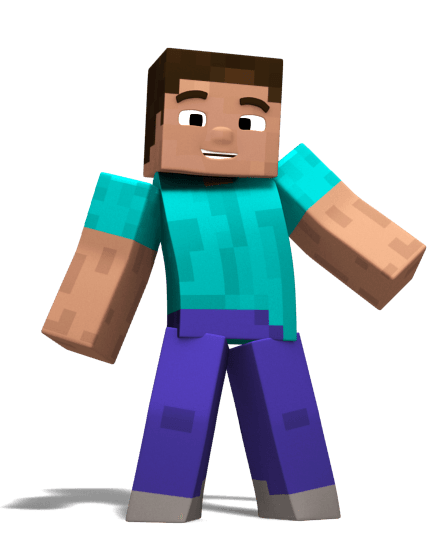
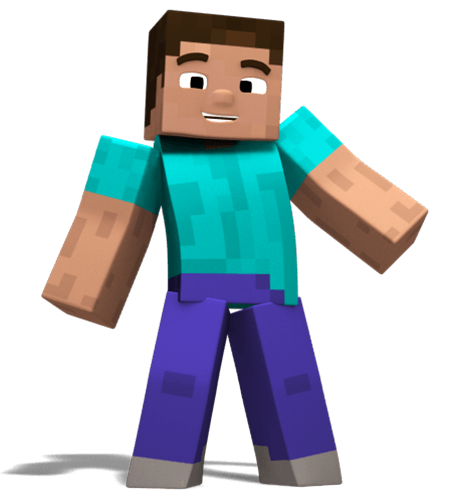
fix #4 and #3

diff --git a/css/style.css b/css/style.css
@@ -195,14 +195,14 @@ ul.nav li a:hover:not(.active) {
 
 .rakuto::after {
     content: '';
-    width: 500px;
+    width: 450px;
     height: 500px;
-    background: url(../images/minecraftcharacter.png);
+    background: url('../images/minecraftcharacter 2.png');
     background-size: cover;
     background-position: center;
     position: absolute;
-    bottom: -30px;
-    left: -30px;
+    bottom: -50px;
+    left: -25px;
 }
 
 .logo-section {
